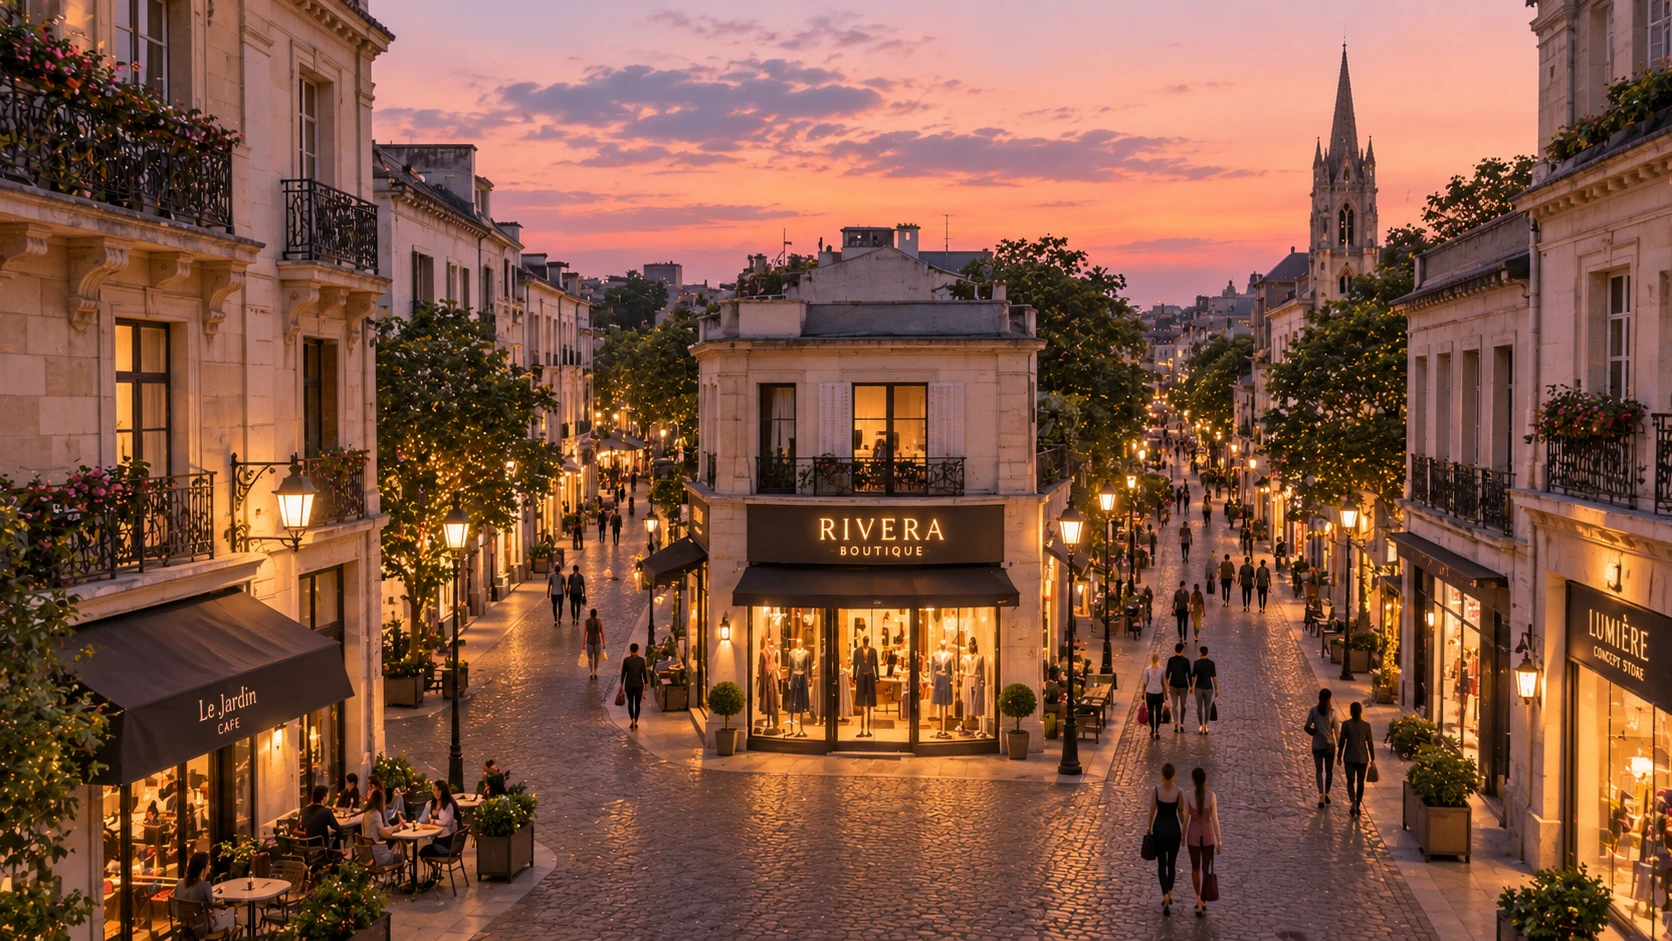
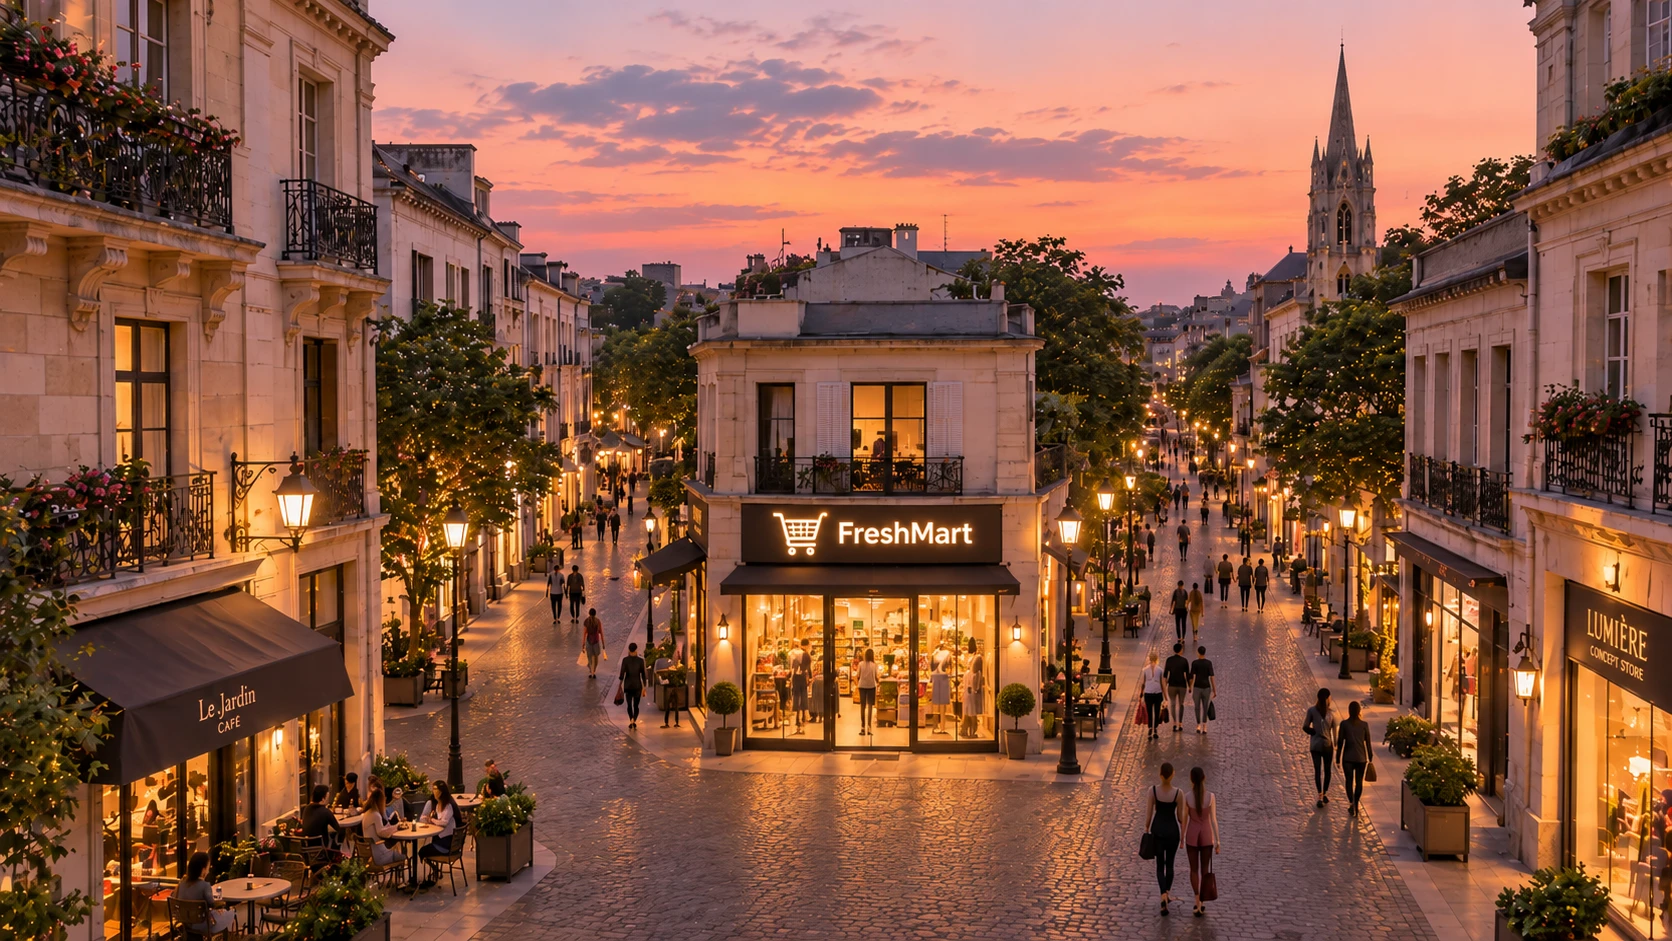
Landing page: the street photo's shop is FreshMart, and its sign lines up with the shopfront

Changed region(s): [[0.0, 0.0, 1.0, 1.0], [0.4976, 0.339, 0.5287, 0.3698]]

diff --git a/site/index.html b/site/index.html
@@ -127,7 +127,7 @@
         <div class="lvl" aria-hidden="true" data-w="1672" data-h="941" data-focus="875,520" data-anchor="690,560">
           <div class="box"><img class="fill" src="/site-assets/img/dive/street.webp" alt="A shopping street at dusk." width="1672" height="941" decoding="async" loading="lazy"></div>
         </div>
-        <div class="lvl" aria-hidden="true" data-w="1672" data-h="941" data-focus="770,540" data-anchor="875,670">
+        <div class="lvl" aria-hidden="true" data-w="1672" data-h="941" data-focus="770,540" data-anchor="902,645">
           <div class="box">
             <img class="fill" src="/site-assets/img/dive/front.webp" alt="A supermarket front." width="1672" height="941" decoding="async" loading="lazy">
             <div class="shutter" style="left:19.9%;top:27.4%;width:62.1%;height:61%"><div class="roll"></div><div class="spill"></div></div>
@@ -256,7 +256,7 @@
         <div class="lvl" aria-hidden="true" data-w="1672" data-h="941" data-focus="875,520" data-anchor="690,560">
           <div class="box"><img class="fill" src="/site-assets/img/dive/street.webp" alt="A shopping street at dusk." width="1672" height="941" decoding="async" loading="lazy"></div>
         </div>
-        <div class="lvl" aria-hidden="true" data-w="1672" data-h="941" data-focus="770,540" data-anchor="875,670">
+        <div class="lvl" aria-hidden="true" data-w="1672" data-h="941" data-focus="770,540" data-anchor="902,645">
           <div class="box"><img class="fill" src="/site-assets/img/dive/front-diwali.webp" alt="The supermarket decorated for Diwali." width="1672" height="941" decoding="async" loading="lazy"></div>
         </div>
         <div class="lvl backed" aria-hidden="true" data-w="1448" data-h="1086" data-focus="744,760" data-anchor="850,560" data-fit="430,852,1058,1040">
